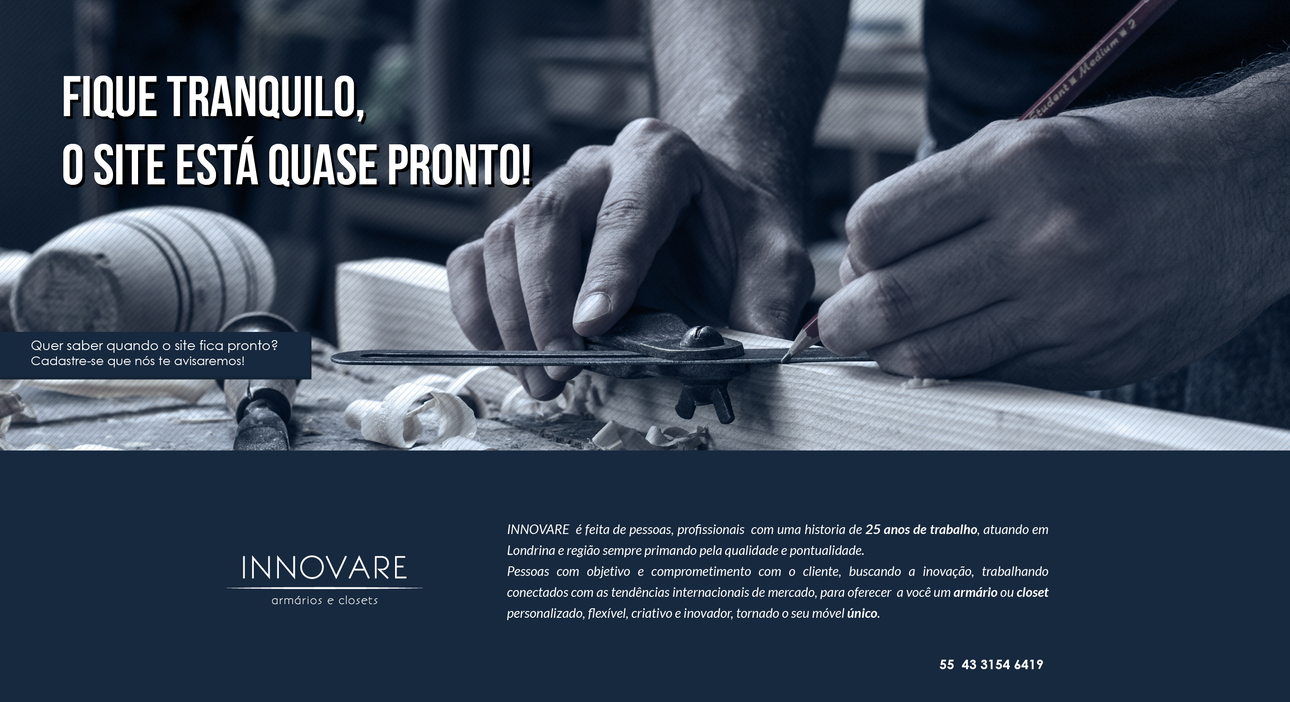
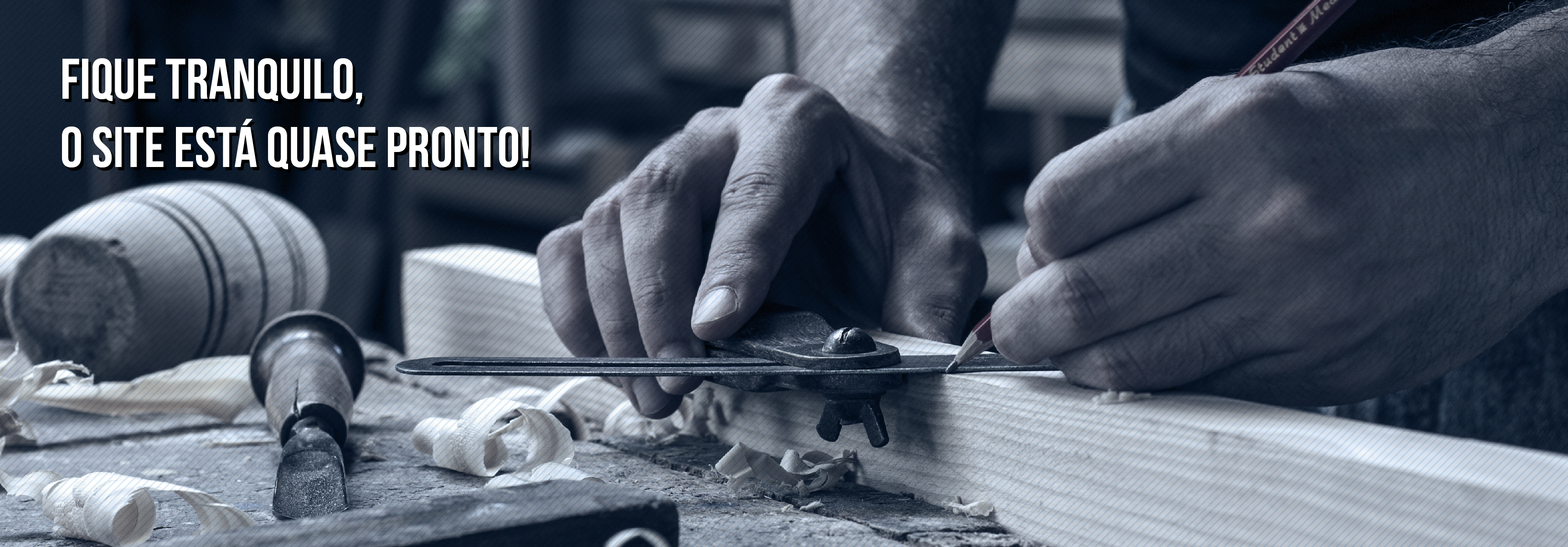
[FIX] css

diff --git a/html/style/css/estilo.css b/html/style/css/estilo.css
@@ -3,32 +3,101 @@ html, body{
 	width: 100%;
 	padding: 0;
 	margin: 0;
+  background-color: #17293F;
 }
 
 p{
 	margin: 0 0 0 0;
 }
+
+.logo{
+  height: 20%;
+  width: 100%;
+  background-color: #17293F;
+}
+
 #top{
-	z-index: -999;
-  	min-width: 1024px;
-  	width: 100%;
-  	height: 100%;
-  	position: fixed;
-  	top: 0;
-  	left: 0;
+    width: 100%;
+    min-width: 1024px;
+    height: 60%;
+    max-height: 1202px;
+	  float: left;
+    background-image: url('../images/fundo.jpg');
+    background-size:100% 100%;
+    -webkit-background-size: 100%;
+    -o-background-size: 100%;
+    -khtml-background-size: 100%;
+    -moz-background-size: 100% 100%;
 }
 
-#wrapper {
-  position: relative;
-  color: white;
-  float: left;
-  font-size: 20px;
-  margin-top: 100px;
-  margin-left: 100px;
-
-}
-
-#footer{
+.footer{
+  float: right;
 	width: 100%;
-	
+	height: 20%;
+  background-color: #17293F;
+  padding-top: 10px;
+}
+
+.formulario{
+  font-family: 'Lato', sans-serif;
+  color: #fff;
+  float: left;
+  width: 50%;
+  height: 100%;
+  background-color: #17293F;
+}
+
+.texto{
+  font-family: 'Lato', sans-serif;
+  color: #fff;
+  float:right;
+  width: 50%;
+  height: 100%;
+  background-color: #17293F;
+  text-align: left;
+}
+
+.btn{
+  margin: 0 0 0 0;
+  display: inline-block;
+  margin-bottom: 0;
+  font-weight: 400;
+  text-align: center;
+  vertical-align: middle;
+  cursor: pointer;
+  background-image: none;
+  border: 1px solid transparent;
+  white-space: nowrap;
+  padding: 3px 12px;
+  font-size: 14px;
+  line-height: 1.42857143;
+  border-radius: 4px;
+  -webkit-user-select: none;
+  -moz-user-select: none;
+  -ms-user-select: none;
+  user-select: none;
+}
+
+.btn-danger {
+  color: #fff;
+  background-color: #b91e29;
+  border-color: #b91e29;
+}
+
+.form{
+  width: 185px;
+  height: 18px;
+  padding: 3px 12px;
+  font-size: 14px;
+  line-height: 1.42857143;
+  color: #555;
+  background-color: #fff;
+  background-image: none;
+  border: 1px solid #ccc;
+  border-radius: 4px;
+  -webkit-box-shadow: inset 0 1px 1px rgba(0,0,0,.075);
+  box-shadow: inset 0 1px 1px rgba(0,0,0,.075);
+  -webkit-transition: border-color ease-in-out .15s,box-shadow ease-in-out .15s;
+  transition: border-color ease-in-out .15s,box-shadow ease-in-out .15s;
+
 }

diff --git a/html/inicio.html b/html/inicio.html
@@ -1,12 +1,26 @@
-<div>
-	<img src="<%URLPADRAO%>html/style/images/fundo.jpg" id="top">
+<div id="top">
+	
 </div>
- <div id="wrapper">
- 	<form>
-		<label><input type="email" name="email" size="40" maxlength="40" value="" required></label>
-		<input type="button" onClick="salva()" name="submit" value="Enviar">
-	</form>
+<div class="footer">
+
+	<div class="formulario">
+		<center><form>
+			<label><i>Quer saber quando o site ficará pronto?<br>
+			Cadastre o seu Email que nós te avisaremos!<br></i>
+			<input class="form" type="email" name="email" size="30" maxlength="40" value="" required></label>
+			<input class="btn btn-danger" type="button" onClick="salva()" name="submit" value="Enviar">
+		</form></center>
+	</div>
+
+	<div class="texto">
+		<i>INNOVARE  é feita de pessoas, profissionais  com uma historia de 25 anos de trabalho, atuando em Londrina e região sempre primando pela qualidade e pontualidade. 
+		Pessoas com objetivo e comprometimento com o cliente, buscando a inovação, trabalhando conectados com as tendências internacionais de mercado, para oferecer  a você um armário ou closet personalizado, flexível, criativo e inovador, tornado o seu móvel único.</i>
+	</div>
+	<div class="logo">
+		<center><img src="<%URLPADRAO%>html/style/images/logo.png" width="250" height="100%"></center>
+	</div>
 </div>
+
 <script type="text/javascript">
 	function salva(){
 		var email = $("input[name=email]").val();

diff --git a/html/modelo.html b/html/modelo.html
@@ -3,7 +3,7 @@
 <head>
     <meta charset="UTF-8">
     <title>Innovare - Armarios e Closets</title>
-
+	<link href='http://fonts.googleapis.com/css?family=Lato:400italic' rel='stylesheet' type='text/css'>
     <link rel="stylesheet" type="text/css" href="html/style/css/estilo.css">
     <script type="text/javascript" src="http://code.jquery.com/jquery-latest.min.js"></script>
 </head>
